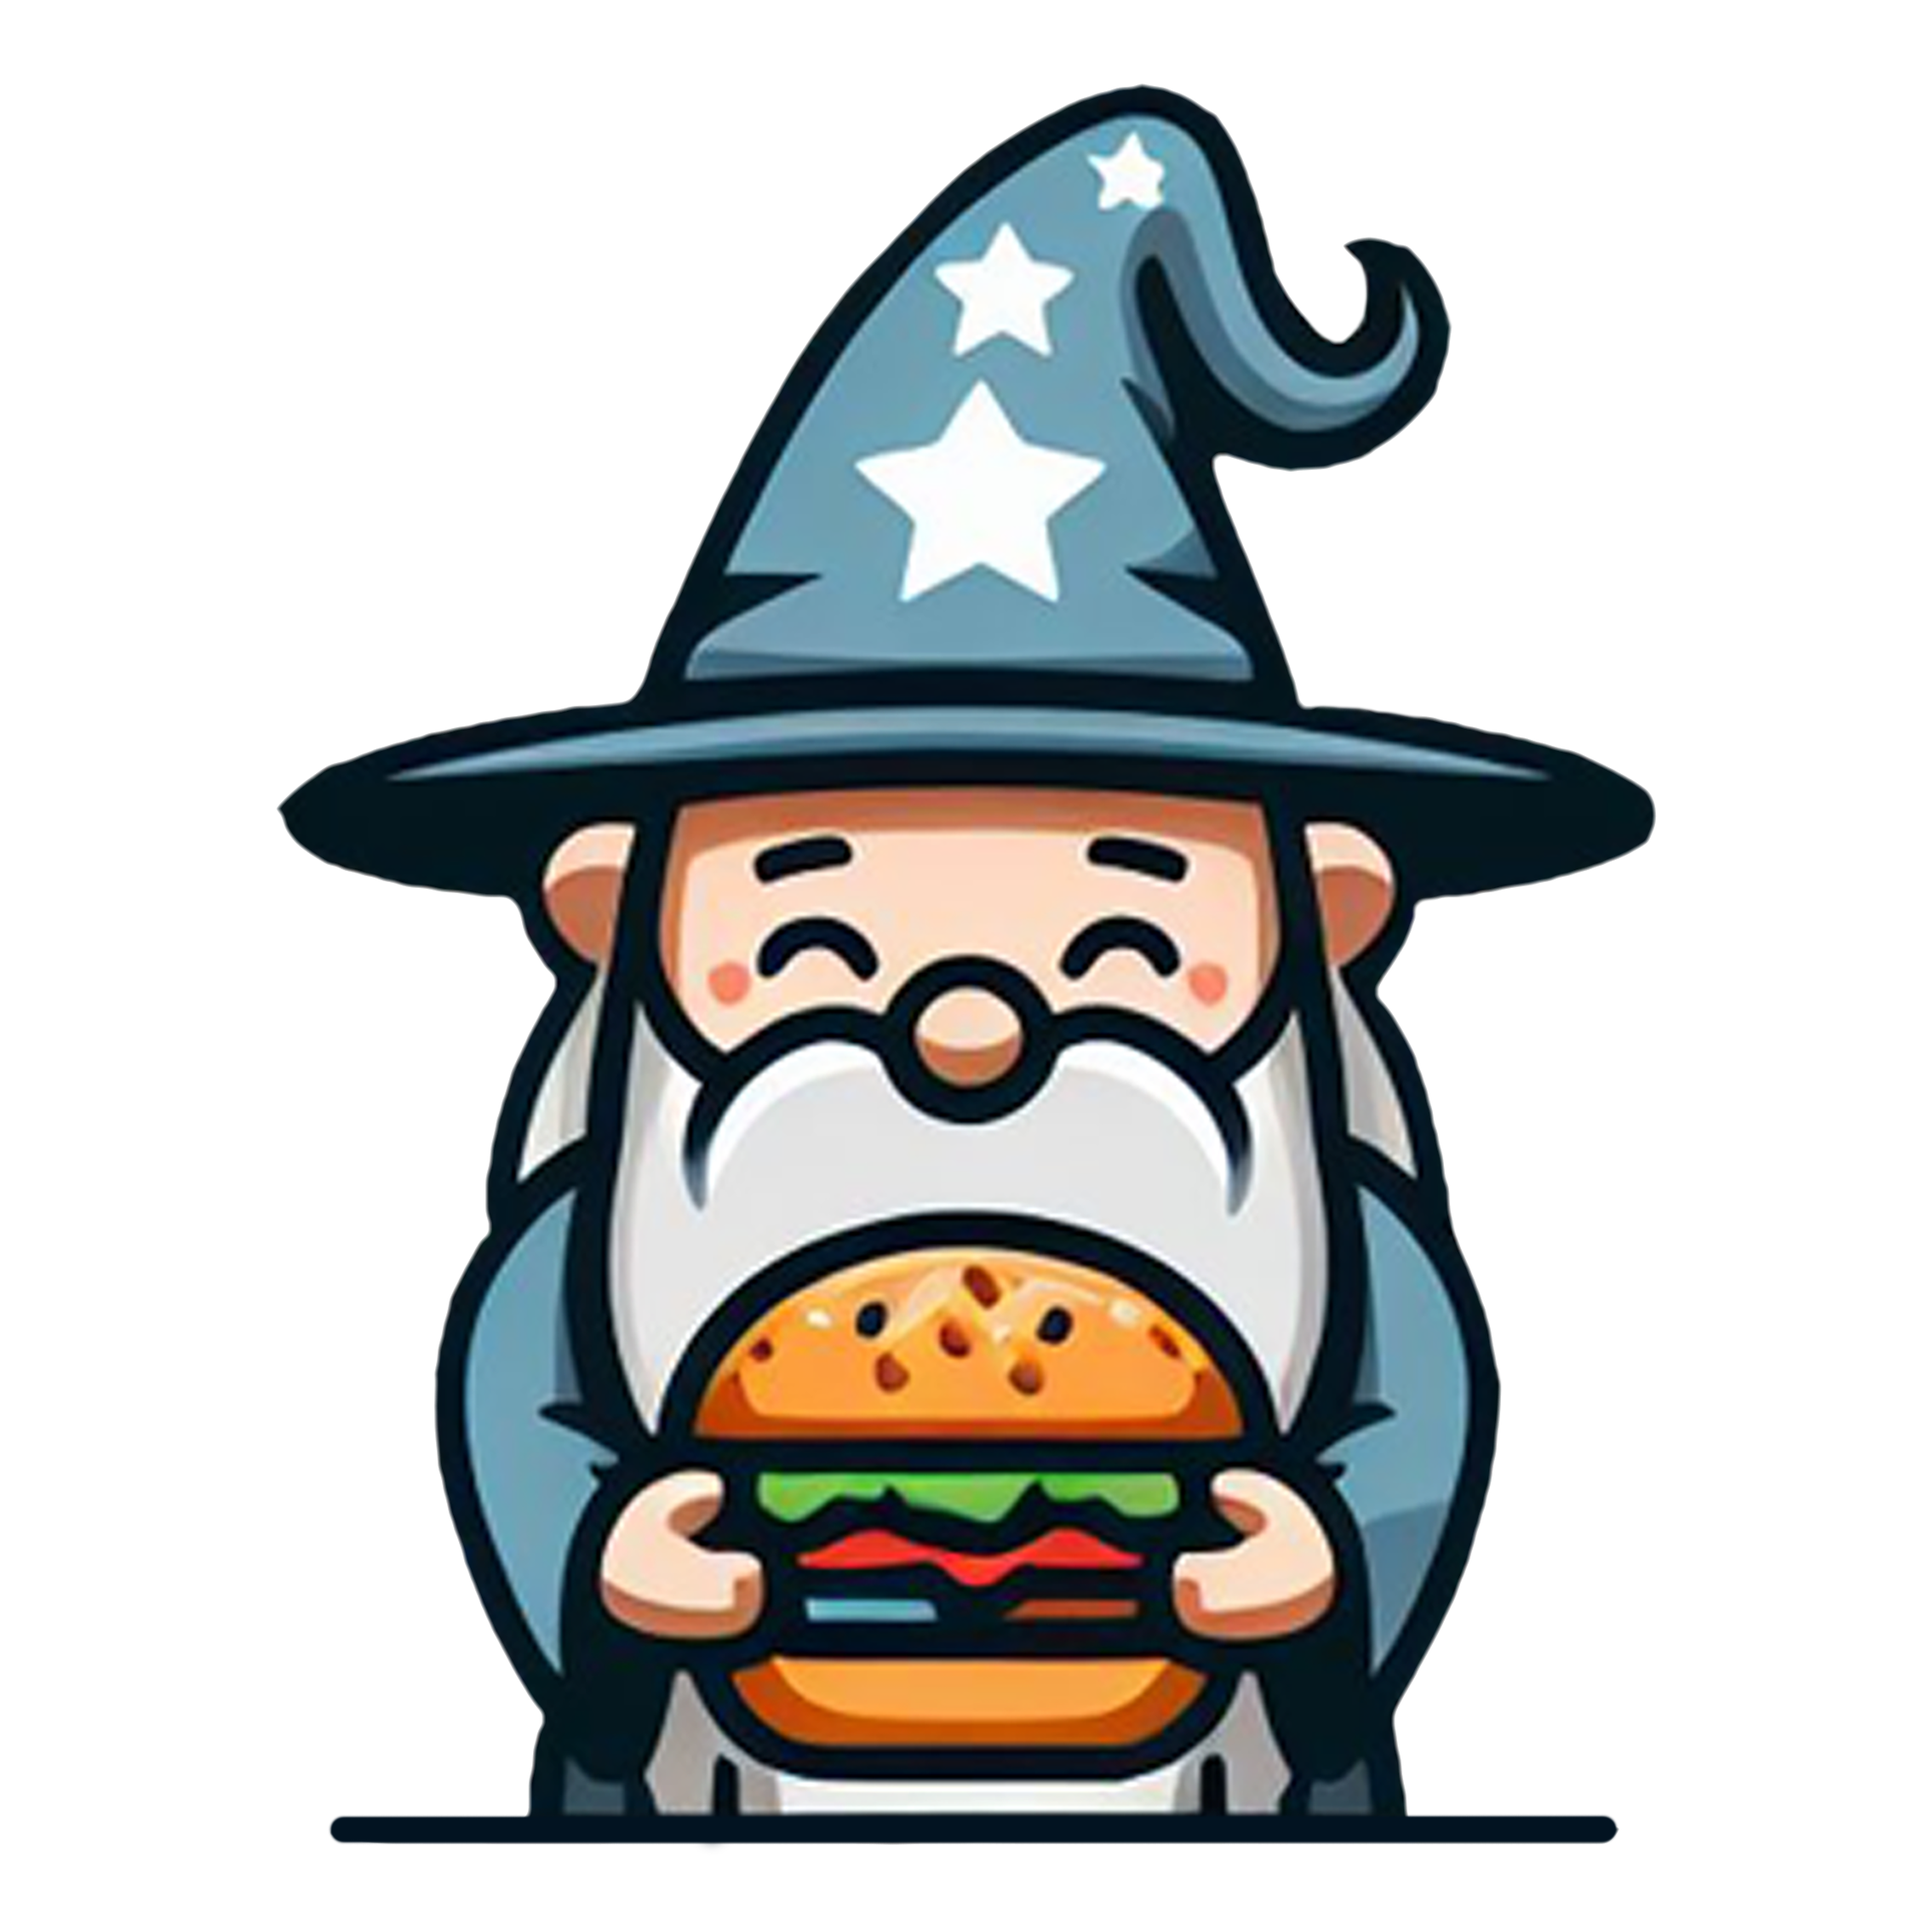
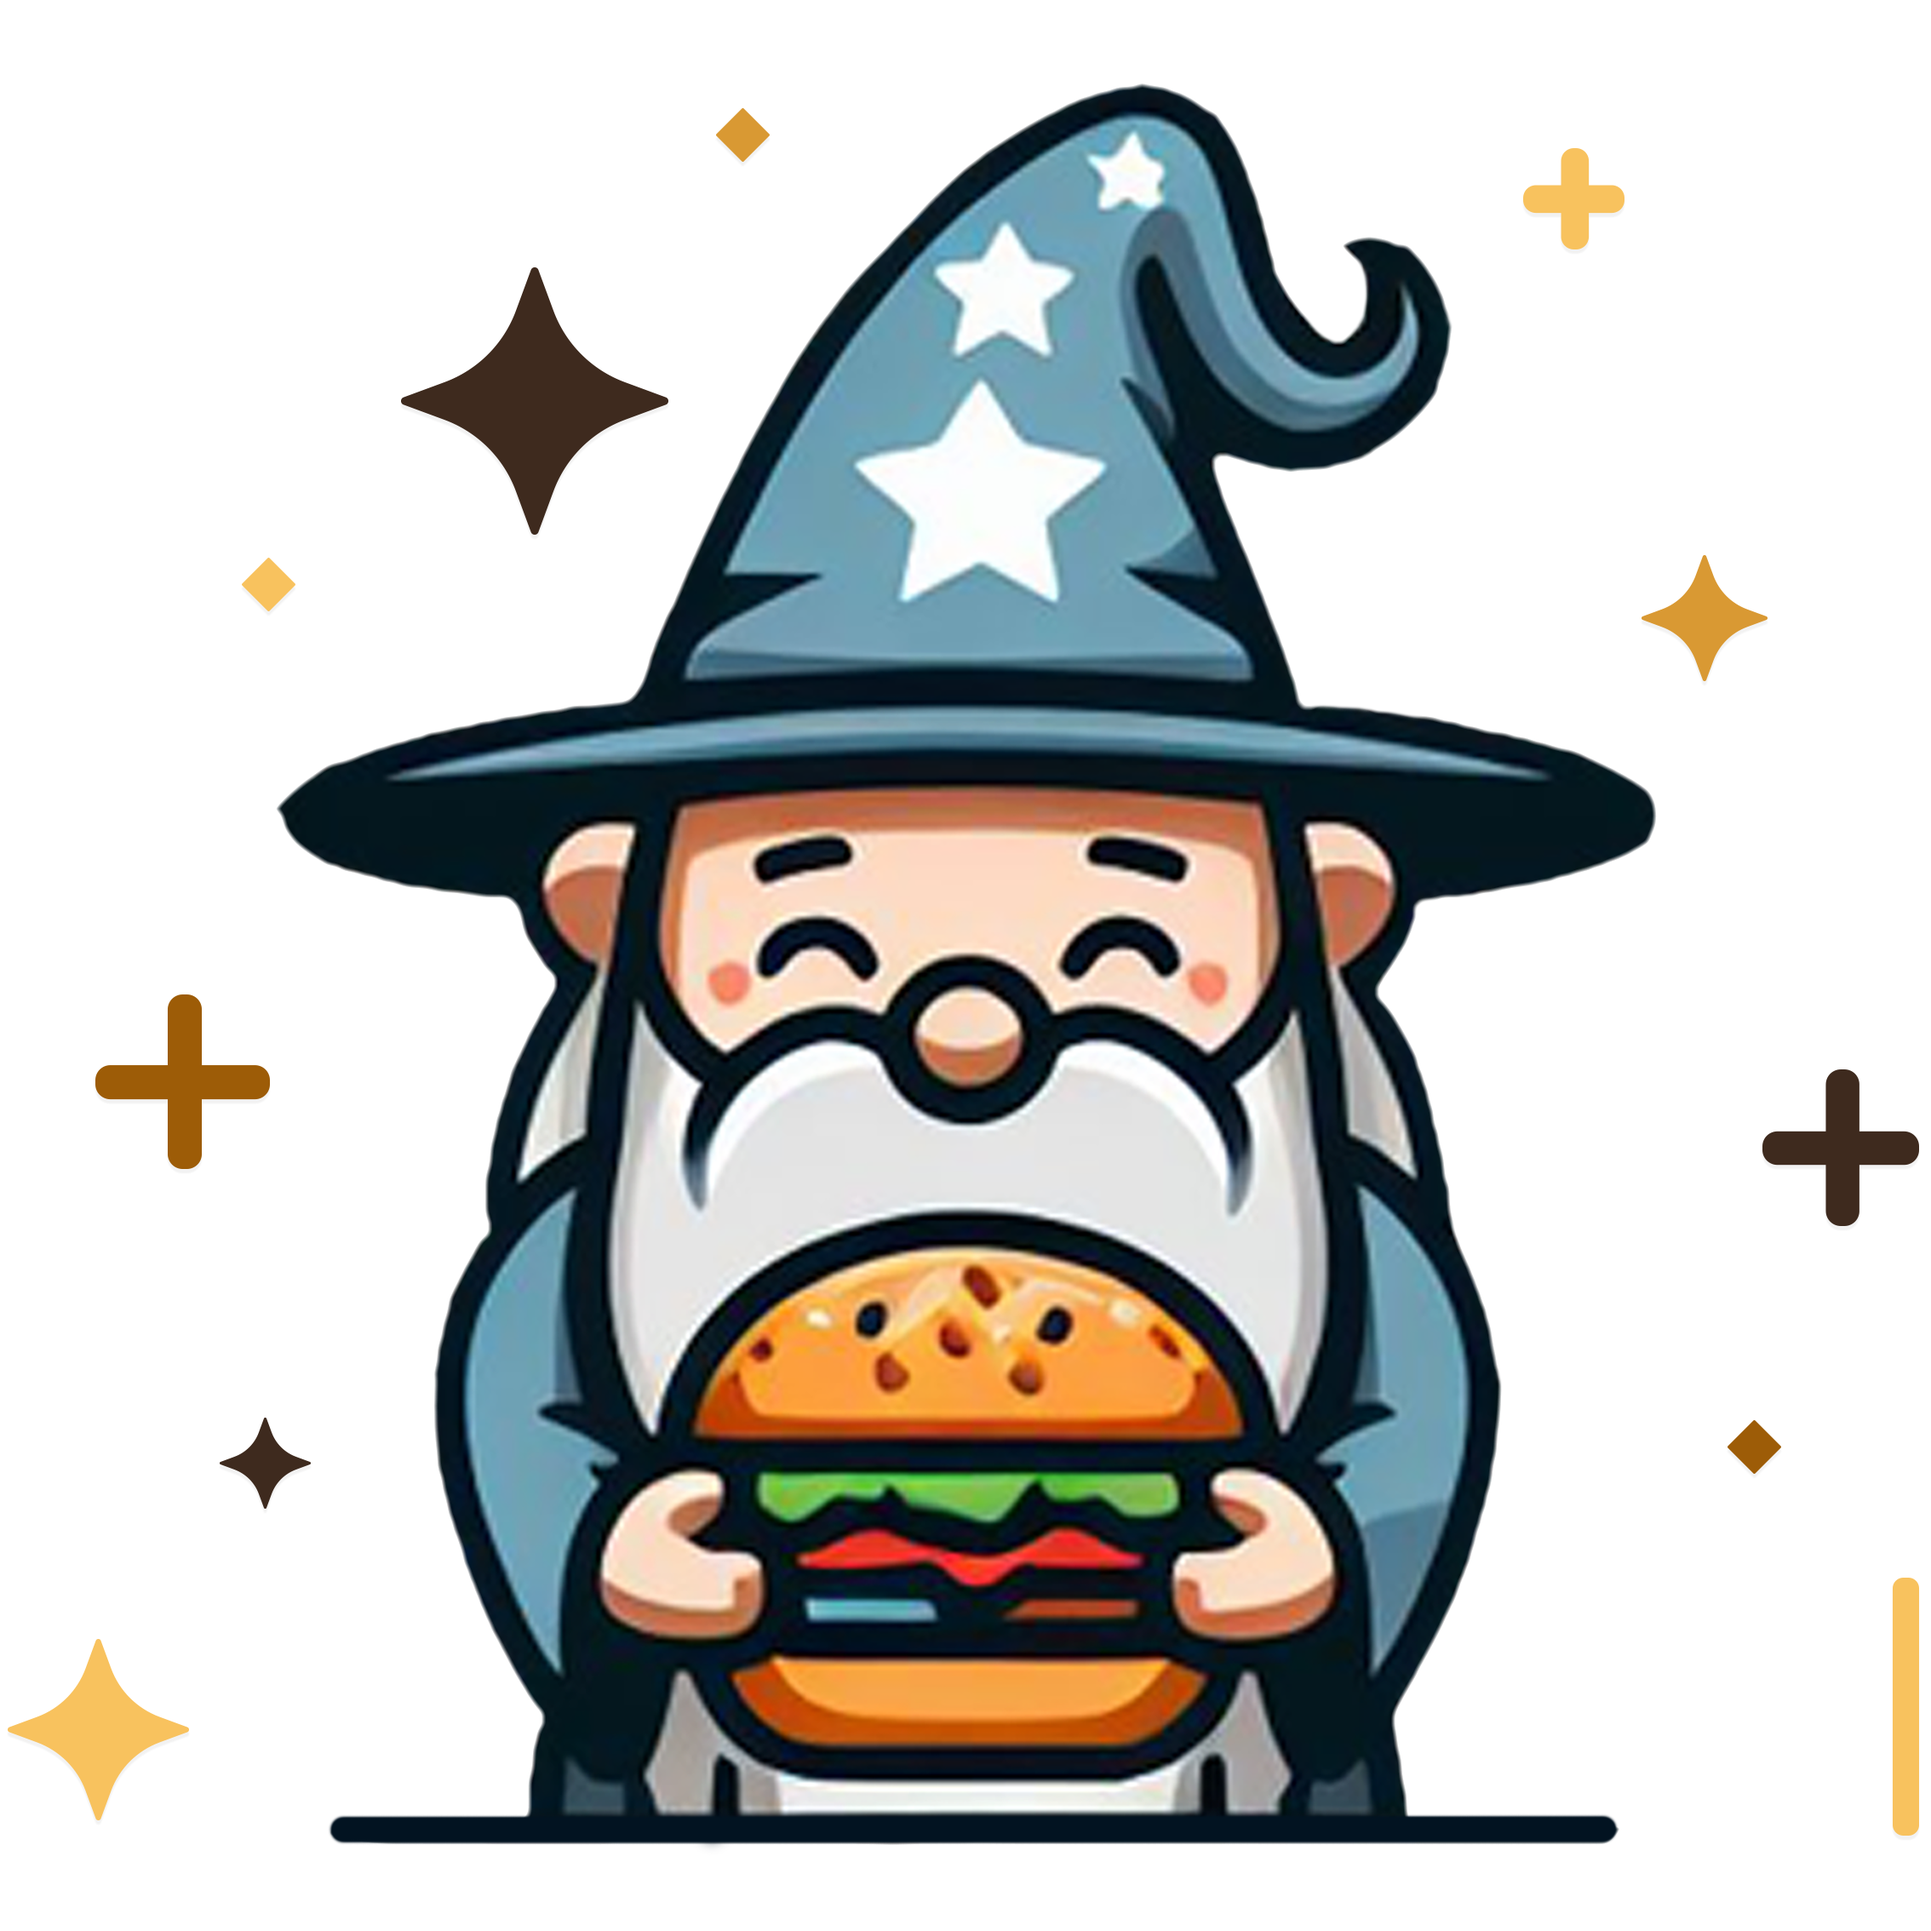
some finishing touches with the wizard image

diff --git a/style.css b/style.css
@@ -135,7 +135,8 @@ h3 {
 
 
 img.wizard {
-    width: 440px;
+    width: 370px;
+    margin-left: 50px;
 }
 
 .linkje {
